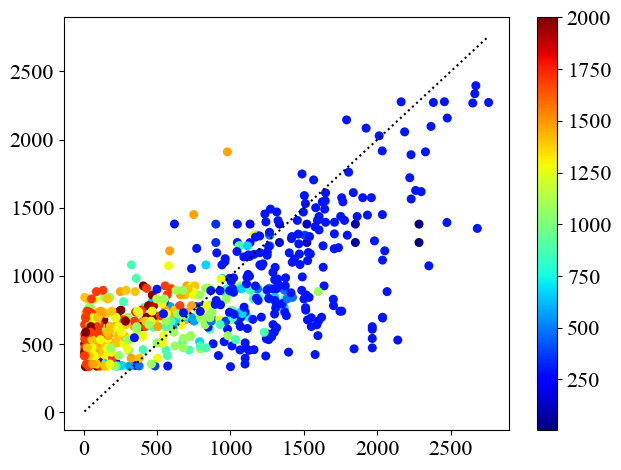
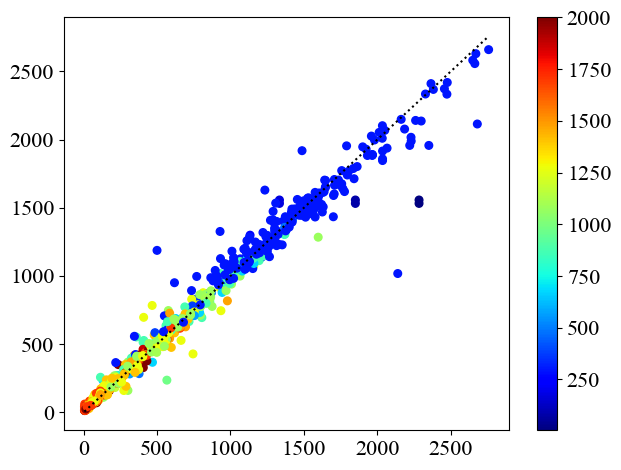
add find outfliers

diff --git a/examples/DevelopingML/Compression_gbr.py b/examples/DevelopingML/Compression_gbr.py
@@ -1,0 +1,54 @@
+import os, sys
+import numpy as np
+import pandas as pd
+
+from myml.utils.GBR_functions import *
+
+float_format = '%.8f'
+
+
+featuress = [["ShearBurger_Surf", "volume_DELTA", "Exp_Shear_ROM", "Exp_Shear_DISTORT", "volume_DISTORT_Max"],
+             ["E_negativity", "bcc2hcp", "Exp_Shear_DISTORT", "volume_DISTORT", "sigma_y0"]]
+
+featuress = [["ShearBurger", "Exp_Surf_ROM", "Exp_Shear_DISTORT", "volume_DISTORT", "volume_DISTORT_Max"],
+             ["E_negativity", "bcc2hcp", "Exp_Shear_DISTORT", "volume_DISTORT", "sigma_y0"],
+             ["ShearBurger_Surf", "Exp_Shear_DISTORT", "volume_DISTORT", "volume_DISTORT_Max"]]
+
+isLOAD = False
+
+#infnames = ["JT_compress_EXT_no50.csv"] #214 data
+#infnames = ["Compression_EXT_no50.csv"] #113
+infnames = ["Compress_EXT_no50.csv"] #214
+#infnames = ["Compress_EXT_no50_BCC.csv"] #138
+#infnames = ["JT_compress_EXT.csv"] #258
+mname_headers = ["Compression_MPEA"]
+colorkey = None
+keys = ["Elongation_EXP"]
+thress = [0.91, 0.92, 0.90]
+thres_diffs = [9, 9, 10]
+regressor = "GBR"
+temp = None
+print("=== start ===")
+if isLOAD:
+    loadmodel=True
+    savemodel=False
+    nloop = 1
+else:
+    loadmodel=False
+    savemodel=True
+    nloop = 5
+min_samples_leaf = 4
+warm_start=False
+typeoffset = 10
+for ifrom in range(0,len(infnames)):
+    for itype in range(2, 3): ##len(featuress)):
+    #for itype in range(0, 1):
+        fname = infnames[ifrom]
+        features = featuress[itype]
+        mname_header = mname_headers[ifrom] + str(itype+typeoffset)
+        
+        ext_train_model(fname, mname_header, thress[itype], keys, features, regressor, \
+                  temp=temp, colorkey=colorkey, loadmodel= loadmodel, savemodel=savemodel, \
+                  nloop=nloop, thres_diff = thres_diffs[itype], set2all= True, \
+                  min_samples_leaf=min_samples_leaf, warm_start=warm_start, SHAP_Plot=False)
+        print("=== finished " + str(itype) + "! ===")       

diff --git a/examples/DevelopingML/Yield_gbr.py b/examples/DevelopingML/Yield_gbr.py
@@ -9,18 +9,18 @@ float_format = '%.8f'
 featuress = [["temp_ratio", "delta_Eb0", "sigma_y0", "E_negativity", \
              "volume_DISTORT", "Exp_Shear_DISTORT", "Exp_Youngs_ROM"]]
 
-featuress = [["delta_Eb0", "sigma_y0", "E_negativity", \
-             "Exp_Youngs_ROM"]]
+#featuress = [["delta_Eb0", "sigma_y0", "E_negativity", \
+#             "Exp_Youngs_ROM"]]
 isLOAD=False
 
 infnames = ["MPEA_dataset_EXT.csv"]
 mname_headers = ["Yield_test"]
 colorkey = "temperature"
 keys = ["Yield_EXP"]
-thress = [0.8]
+thress = [0.99]
 regressor = "GBR"
 temp = None
-warm_start = True
+warm_start = False
 if isLOAD:
     loadmodel=True
     savemodel=False
@@ -28,9 +28,9 @@ if isLOAD:
 else:
     loadmodel=False
     savemodel=False
-    nloop = 1000
+    nloop = 5
 min_samples_leaf = 6
-thres_diff = 10.0
+thres_diff = 5.0
 for ifrom in range(0,len(infnames)):
     for itype in range(0,len(featuress)):
         fname = infnames[ifrom]
@@ -42,4 +42,17 @@ for ifrom in range(0,len(infnames)):
                   temp=temp, T_logic="equal", colorkey=colorkey, loadmodel= loadmodel, savemodel=savemodel, \
                   nloop=nloop, thres_diff = thres_diff, \
                   set2all = True, min_samples_leaf=min_samples_leaf, \
-                  warm_start=warm_start, SHAP_Plot=True, SHAP_output=True)
+                  warm_start=warm_start, SHAP_Plot=False, SHAP_output=True)
+
+
+'''
+training data is Database/MPEA_dataset_EXT.csv  
+features = ["temp_ratio", "delta_Eb0", "sigma_y0", "E_negativity", \
+             "volume_DISTORT", "Exp_Shear_DISTORT", "Exp_Youngs_ROM"]
+ML Model is
+sklearn.ensemble.GradientBoostingRegressor ()
+hyperparameters: {'learning_rate': 0.01, 'max_depth': 3, 'n_estimators': 100, 'min_samples_leaf': 6, 'warm_start': True}
+Compute Standardized error to find the outfliers for all datasets
+           
+             
+'''
